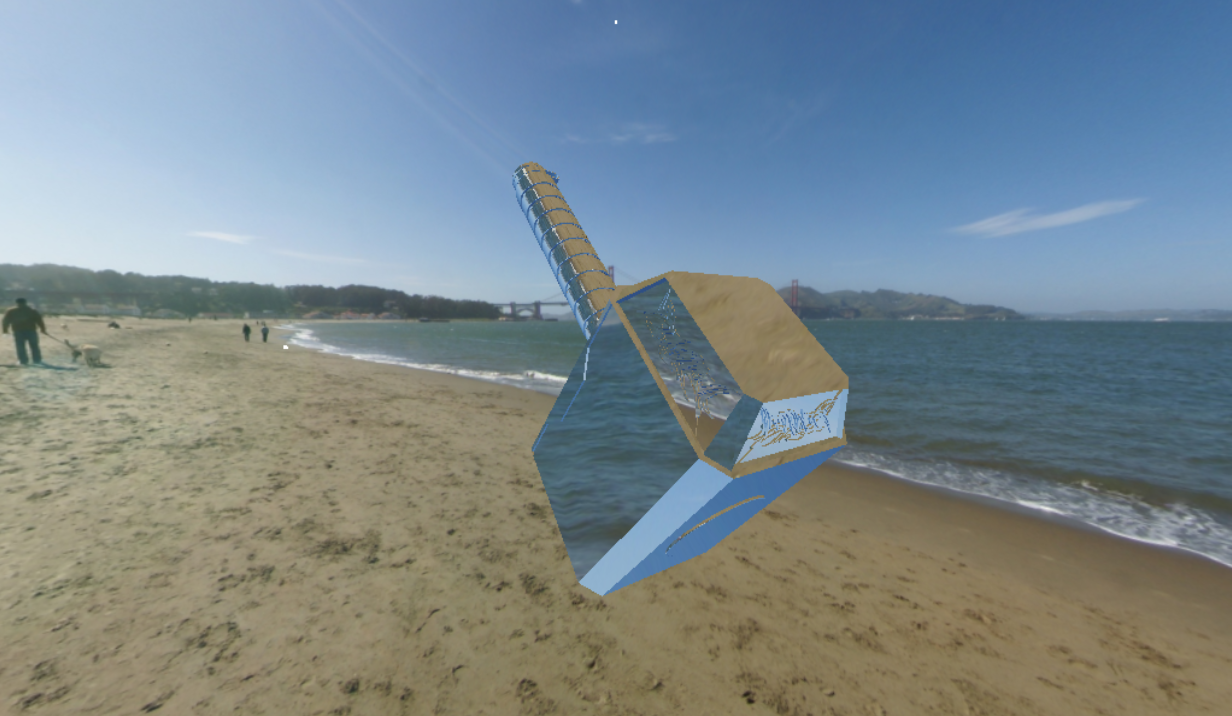
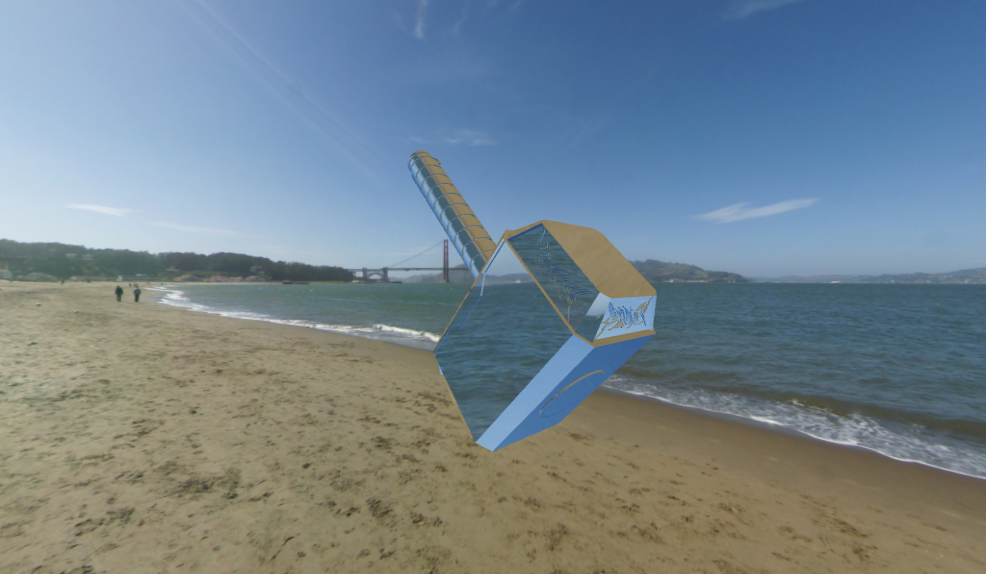
readme update

diff --git a/index.html b/index.html
@@ -620,7 +620,7 @@
 
       //Quarta Luce
     lightD = new THREE.Mesh( geometryLight, materialLight);
-    lightD.position.set( -18.0, 1.0, 0.0 );
+    lightD.position.set( -18.0, -5.0, 0.0 );
     scene.add( lightD );
 
     uniformsGold.pointLightPosition4.value = new THREE.Vector3(lightD.position.x, lightD.position.y, lightD.position.z);
@@ -986,7 +986,7 @@
                                     child.material = used_material;
                             }
                             else if(childCounter == 1) {
-                                    child.material = silver_material;
+                                    child.material = used_material;
                             }
                             else if(childCounter == 2) {
                                     child.material = concrete_texture_material;

diff --git a/README.md b/README.md
@@ -11,8 +11,8 @@ Infine, il resto della pagina è organizzato su due colonne distinte, la prima c
 ## Il Modello Usato
 
 Il modello usato per questa applicazione è stato ottenuto dal sito web [Free3D](https://free3d.com) ed il file usato è il [Thor Hammer](https://free3d.com/3d-model/thor-hammer--62945.html) che è disponibile con licenza **Non-commercial use License**. Il modello è stato scaricato nella sua versione **.obj** e non sono state applicate le sue texture predefinite, in quanto si è preferito adottarne delle versioni ad hoc creando dei materiali personalizzati. Nello specifico si è cercato di creare:
-- Una base a cui viene applicata una texture su cui far poggiare il martello. Tale base può venire mostrata o nascosta dall'utente a seconda delle sue preferenze.
-- Una versione prettamente metallica del martello.
+- Una versione in cui sono presenti materiali metallici e più texture;
+- Una versione prettamente metallica del martello;
 - Una versione giocattolo composta da materiali gommosi.
 - Una versione che subisce un effetto di rifrazione dalla luce ricevuta, da vedere nel contesto come versione "invisibile" o "mimetica".
 
@@ -20,20 +20,28 @@ Ciascuna delle versioni sopra elencate è stata sviluppata estendendo e modifica
 
 ## Luci
 
-Le luci previste per questa applicazione sono diverse, come si sarà capito al punto precedente, a seconda del contesto d'uso. Il martello verrà illuminato da 4 luci puntuali nelle sue versioni giocattolo e metallico, poste una di fronte ad esso, due ai lati ed infine una verrà posta sopra. L'idea è di consentire una illuminazione artificiale e completa dell'oggetto, mantenendo comunque alcune zone in ombra, ma esaltando alcuni particolari degni di nota, come i glifi posizionati sulla sua testa o le sue irregolarità. Questa idea è accentuata dalla assenza di sfondo e dall'uso per esso di un colore tenue che si distingue di poco dal resto della pagina bianca.
+Le luci previste per questa applicazione sono diverse, come si sarà capito al punto precedente, a seconda del contesto d'uso. Il martello verrà illuminato da 4 luci puntuali usate per illuminare in modo completo i materiali metallici e plastici. Tali luci sono poste una di fronte ad esso, due ai lati ed infine una verrà posta sopra. L'idea è di consentire una illuminazione artificiale e completa dell'oggetto, mantenendo comunque alcune zone in ombra, ma esaltando alcuni particolari degni di nota, come i glifi posizionati sulla sua testa o le sue irregolarità. Questa idea è accentuata dalla assenza di sfondo e dall'uso per esso di un colore tenue. L'uso di 4 luci in questo caso è funzionale all'idea di illuminare in modo soddisfacente l'intera testa del martello. Per gli shader che invece sfruttano le texture si è invece deciso di usare solamente 3 luci, due laterali ed una superiore. Questo perchè l'inclinazione a cui è posto il martello rende superfluo l'aggiunta di una quarta luce ed inoltre si è deciso di non illuminare la parte sottostante del prodotto.
 
 Infine la versione che prevede la rifrazione della luce sfrutterà ovviamente una CubeMap (visibile in figura) per generare luce attraverso una Enviroment Map. Le immagini usate per generarla sono disponibili attraverso licenza **Creative Commons Attribution 3.0** e quindi è utilizzabile per questo progetto gratuitamente. 
 
 ![Cubemap Usata](media/screenshots/cube_map.png)
 
+
+
 ## Materiali
-I materiali metallici sono stati creati attraverso l'uso di uno Shader nella sua versione Microfacet, poichè tale versione consentiva risultati visivamente perfetti e con colori più vivi rispetto all'uso di un combined shader (cdiff + cspec). I colori vivi rendono bene l'idea di un martello appartenente ad una divinità e quindi senza alcun segno di usura data dal tempo e dall'utilizzo. Si è deciso in questo caso di usare due materiali distinti, uno dorato usato per gli intarsi del manico e le decorazioni della testa ed infine uno argentato che verrà applicato alla testa stessa ed al manico, componendo la struttura di base del martello. Le 4 luci puntuali integrate negli shader consentono, con questo tipo di materiale, un risultato visivamente pieno, in quanto 3 facce su 4 sono illuminate, consentendo di vedere il riflesso delle luci quasi da ogni angolazione e mantenendo in ombra alcuni elementi come la parte sottostante della testa del martello. Particolar risalto hanno in questo caso le incisioni sulla testa, che sembrano quasi brillare di luce propria grazie al posizionamento delle luci.
+I materiali metallici sono stati creati attraverso l'uso di uno Shader nella sua versione Microfacet, poichè tale versione consentiva risultati visivamente perfetti e con colori più vivi rispetto all'uso di un combined shader (cdiff + cspec). I colori vivi rendono bene l'idea di un martello appartenente ad una divinità e quindi senza alcun segno di usura data dal tempo e dall'utilizzo. Si è deciso in questo caso di usare due materiali distinti, uno dorato usato per gli intarsi del manico e le decorazioni della testa ed infine uno argentato che verrà applicato alla testa stessa. Le 4 luci puntuali integrate negli shader consentono, con questo tipo di materiale, un risultato visivamente pieno, consentendo di vedere il riflesso delle luci quasi da ogni angolazione e mantenendo in ombra alcuni elementi come la parte sottostante della testa del martello. Particolar risalto hanno in questo caso le incisioni sulla testa, che sembrano quasi brillare di luce propria grazie al posizionamento delle luci. Per dare una sensazione di microvariazione geometrica per il manico è stata usata una texture rappresentante il legno il cui shader come detto sopra è composto da 3 luci puntuali. 
 
 ![Versione Metallica](media/screenshots/metallic_mj.png)
 
-I materiali plastici invece sono stati creati ovviamente attraverso un combined shader integrando le informazioni inerenti a cdiff e cspec. Anche tali shader sono stati adottati nella versione vista a lezione ed integrati con le luci aggiuntive previste. I materiali usati in questo caso sono 3, tutti plastici e a far la differenza sono solamente i colori: rosso per la testa del martello, blu per il manico ed i glifi presenti sulla testa ed infine un materiale marrone per gli intarsi del manico. 
+![Texture Legno](media/screenshots/textures.png)
+
+I materiali plastici invece sono stati creati ovviamente attraverso un combined shader integrando le informazioni inerenti a cdiff e cspec. Anche tali shader sono stati adottati nella versione vista a lezione ed integrati con le luci aggiuntive previste. I materiali usati in questo caso sono 3, tutti plastici e a far la differenza sono solamente i colori: rosso per la testa del martello, blu per il manico ed i glifi presenti sulla testa ed infine un materiale grigio per gli intarsi del manico.
 
 ![Versione Giocattolo](media/screenshots/toy_mj.png)
+
+Una ulteriore versione è stata integrata in seguito e si avvale di una ulteriore texture ed un ulteriore materiale metallico. Questa versione integra tra l'altro i materiali dorati e argentati utilizzati precedentemente. Per il manico è stata usata una texture rappresentante la pietra. Per quanto questa scelta di texture sia poco verosimile nella realtà essa aggiunge delle microvariazioni gradevoli all'occhio all'interno del manico stesso. Agli intarsi questa volta è stato applicato il materiale legnoso che prima nella versione metallica era stata applicata al manico. La texture, unita alla forma e ai valori di repeat scelti fornisce l'aspetto di fasci di legno con le venature efficacemente messe in risalto grazie alla luce. Il giunto che si posa sulla testa è argentato, gli intarsi della stessa sono dorati e risaltano ancora una volta in modo netto rispetto al materiale scelto per la testa del martello. Su di essa questa volta è stato applicato un materiale metallico volutamente di un blu sovvranaturale.
+
+![Versione Used](media/screenshots/used_mj.png)
 
 Infine la versione degli shader che implementa il fenomeno di rifrazione è stata creata partendo dallo shader visto a lezione che consente il reflection mapping e modificando il codice adeguatamente usando la funzione refract. Il rapporto dell'indice di rifrazione usato (1.0/2.0) è stato scelto dopo alcuni test poichè consentiva un risultato visivamente appagante. 
 
@@ -41,7 +49,15 @@ Infine la versione degli shader che implementa il fenomeno di rifrazione è stat
 
 Per quanto riguarda infine la base d'appoggio, essa è stata creata usando un cilindro con una altezza estremamente ridotta ed applicandovi una texture tramite shader. Tale texture è il prodotto delle informazioni di una Specular Map, una Diffuse Map ed una Roughness Map che, combinate, garantiscono un risultato visivamente soddisfacente. Tali texture sono state ottenute gratuitamente dal sito web [GameTextures] (https://www.gametextures.com/free-materials/) e poi create ed esportate singolarmente attraverso il software Substance Player. Quelle usate sono visibili in figura. 
 
-![Base Textures](media/screenshots/textures.png)
+## Il Particle System
+
+Come piccola aggiunta si è deciso inoltre di implementare un semplice particle system statico composto da 2000 punti a cui è applicata la texture snowflake.png pe simulare delle stelle. Tale opzione di visualizzazione è attivabile attraverso lo switch posto in fondo alla colonna di UI a sinistra del canvas. L'attivazione di tale elemento dell'interfaccia comporta lo scurimento dello sfondo e la comparsa delle stelle in posizioni pseudocasuali. Tale particle system è visibile per ogni tipo di martello eccezion fatta ovviamente per quella basata sull'effetto di riflessione in quanto essa per essere credibile necessita del proprio sfondo. Nel caso in cui l'utente tentasse di passare dalla visualizzazione del particle system a quella dello scenario di rifrazione quindi viene proposto un messaggio d'errore che invita a disattivare prima il particle system stesso.
+
+![Texture](media/snowflake.png)
+
+![Particle System](media/screenshots/simple_particle.png)
+
+![Error](media/screenshots/error.png)
 
 ## Struttura del codice
 
@@ -58,8 +74,3 @@ In sintesi, il codice è così strutturato:
 - **SetupToyHammer** contiene la definizione delle variabili uniform per i suoi materiali e la creazione del martello apposito seguendo la stessa modalità del precedente. Le luci usate in questo caso sono le stesse descritte per il materiale metallico;
 - Infine la funzione **ShowEnviroment** setta come background la cube map, calcola le uniforms apposite e crea un mjolnir il cui unico materiale rispetta la proprietà desiderata. 
 
-## Eventuali Sviluppi
-
-- è possibile fare in modo che la camera abbia angoli di rotazione più elevati nel caso in cui la base d'appoggio non sia visualizzata e mantenga invece i parametri attuali quando tale elemento è mostrato a display;
-
-- Gli elementi di UI che consentono di mostrare / nascondere la base d'appoggio potrebbero venire aggiornati in una versione più compatta.

diff --git a/JOURNAL.md b/JOURNAL.md
@@ -42,3 +42,8 @@ Da migliorare:
 - Pulizia codice
 - Pulsante di aggiunta - rimozione base d'appoggio più compatta
 - Aggiungere filtro di Sobel come opzione di visualizzazione
+
+# 08-06-2017
+- Rimossa base di appoggio
+- Aggiunto particle system ed ulteriore modalità di visualizzazione
+- Migliorie grafiche generali
